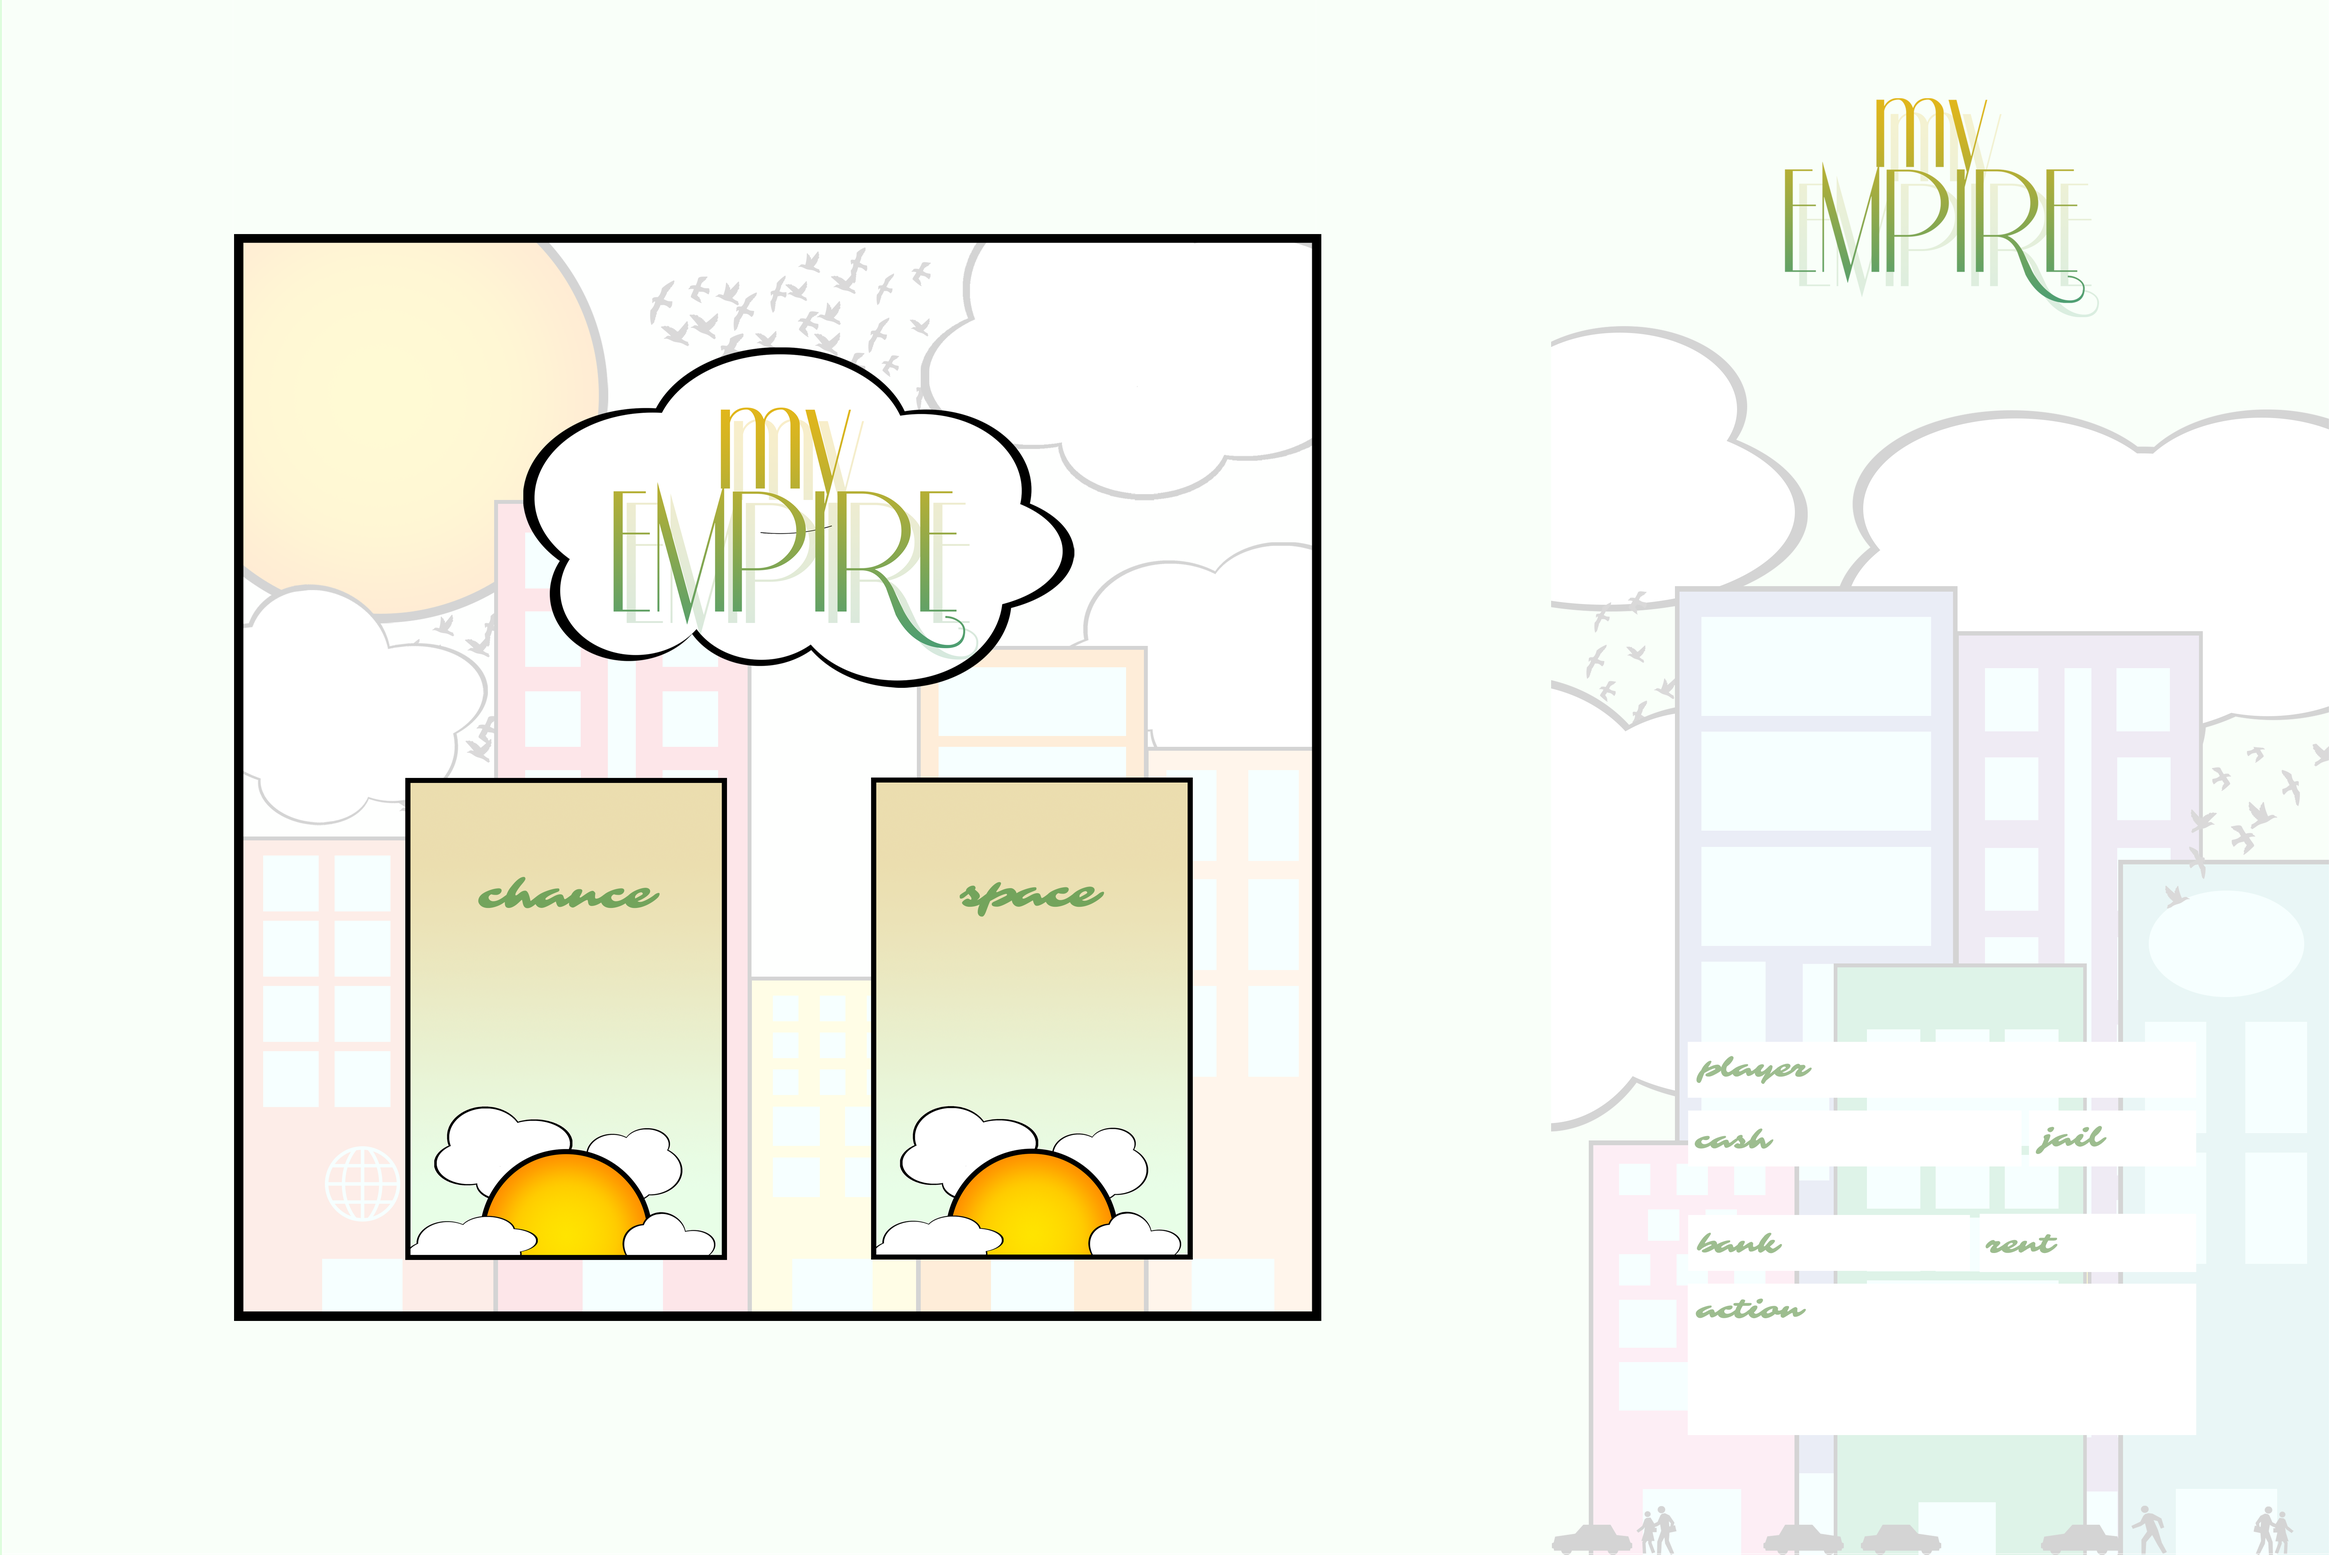
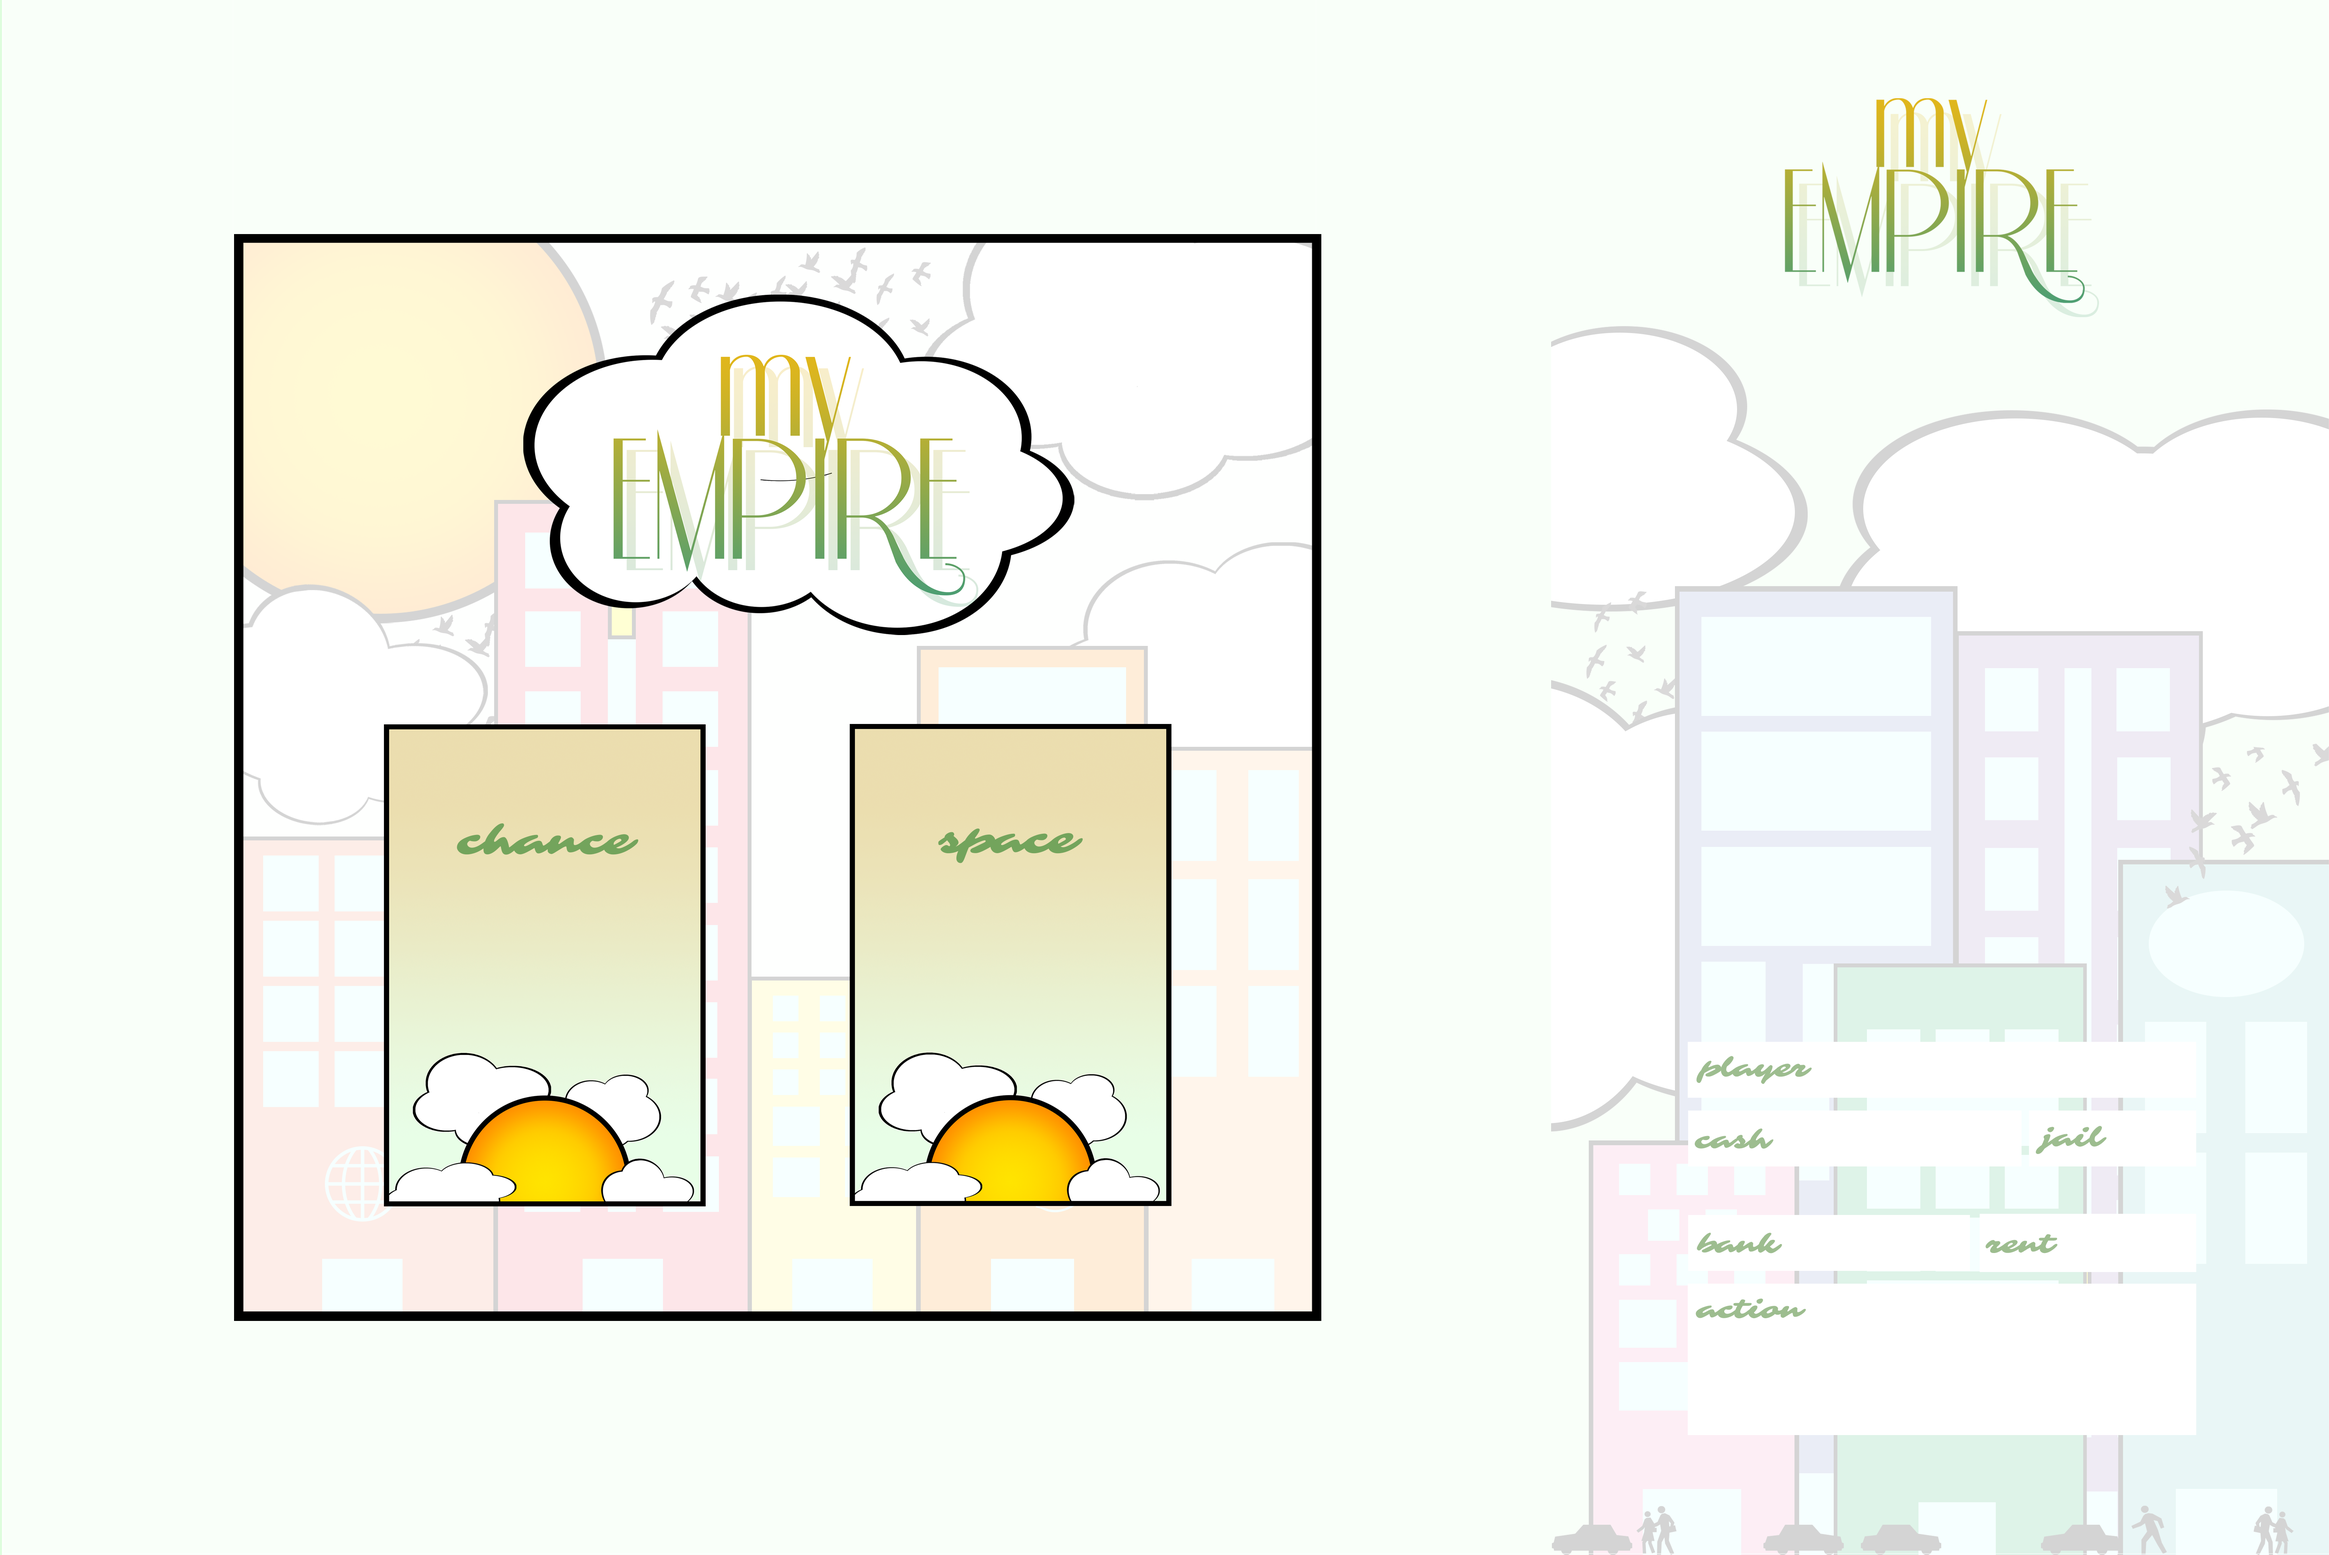
enlarge middle fixed

Changed region(s): [[0.2182, 0.1872, 0.5298, 0.8113], [0.1558, 0.468, 0.3117, 0.8113]]

diff --git a/Controller/GameBoardController.java b/Controller/GameBoardController.java
@@ -547,23 +547,13 @@ public class GameBoardController {
   public void enlargeChance () {
 
     if (chanceImage.isVisible()) {
-      chanceImage.setFitHeight(337.5);
-      chanceImage.setFitWidth(225);
 
-      chanceImage.setLayoutX(93.5);
-      chanceImage.setLayoutY(316.25);
-    }
+      chanceImage.setFitWidth(250);
+      chanceImage.setFitHeight(375);
 
-  }
+      chanceImage.setLayoutX(68);
+      chanceImage.setLayoutY(264.5);
 
-  public void enlargeSpace () {
-
-    if (spaceImage.isVisible()) {
-      spaceImage.setFitHeight(337.5);
-      spaceImage.setFitWidth(225);
-
-      spaceImage.setLayoutX(380.5);
-      spaceImage.setLayoutY(316.25);
     }
 
   }
@@ -572,11 +562,25 @@ public class GameBoardController {
 
     if (chanceImage.isVisible()) {
 
-      chanceImage.setFitHeight(300);
       chanceImage.setFitWidth(200);
+      chanceImage.setFitHeight(300);
 
-      chanceImage.setLayoutX(106);
-      chanceImage.setLayoutY(335);
+      chanceImage.setLayoutX(93);
+      chanceImage.setLayoutY(302);
+
+    }
+
+  }
+
+  public void enlargeSpace () {
+
+    if (spaceImage.isVisible()) {
+
+      spaceImage.setFitWidth(250);
+      spaceImage.setFitHeight(375);
+
+      spaceImage.setLayoutX(355);
+      spaceImage.setLayoutY(264.5);
 
     }
 
@@ -586,11 +590,11 @@ public class GameBoardController {
 
     if (spaceImage.isVisible()) {
 
-      spaceImage.setFitHeight(300);
       spaceImage.setFitWidth(200);
+      spaceImage.setFitHeight(300);
 
-      spaceImage.setLayoutX(393);
-      spaceImage.setLayoutY(335);
+      spaceImage.setLayoutX(380);
+      spaceImage.setLayoutY(302);
 
     }
 
